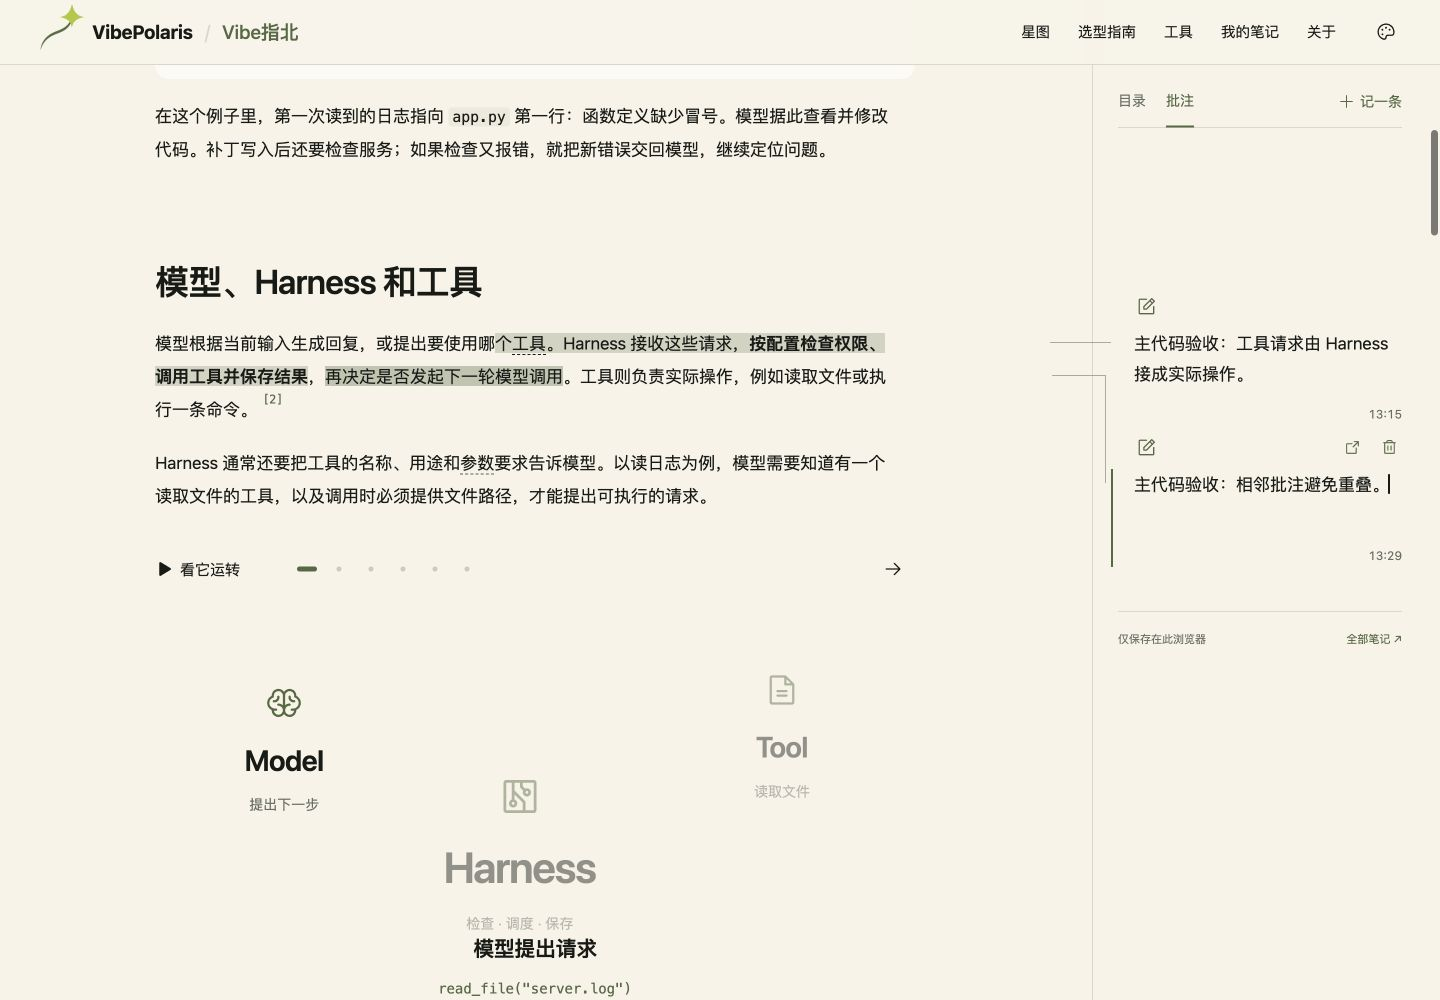
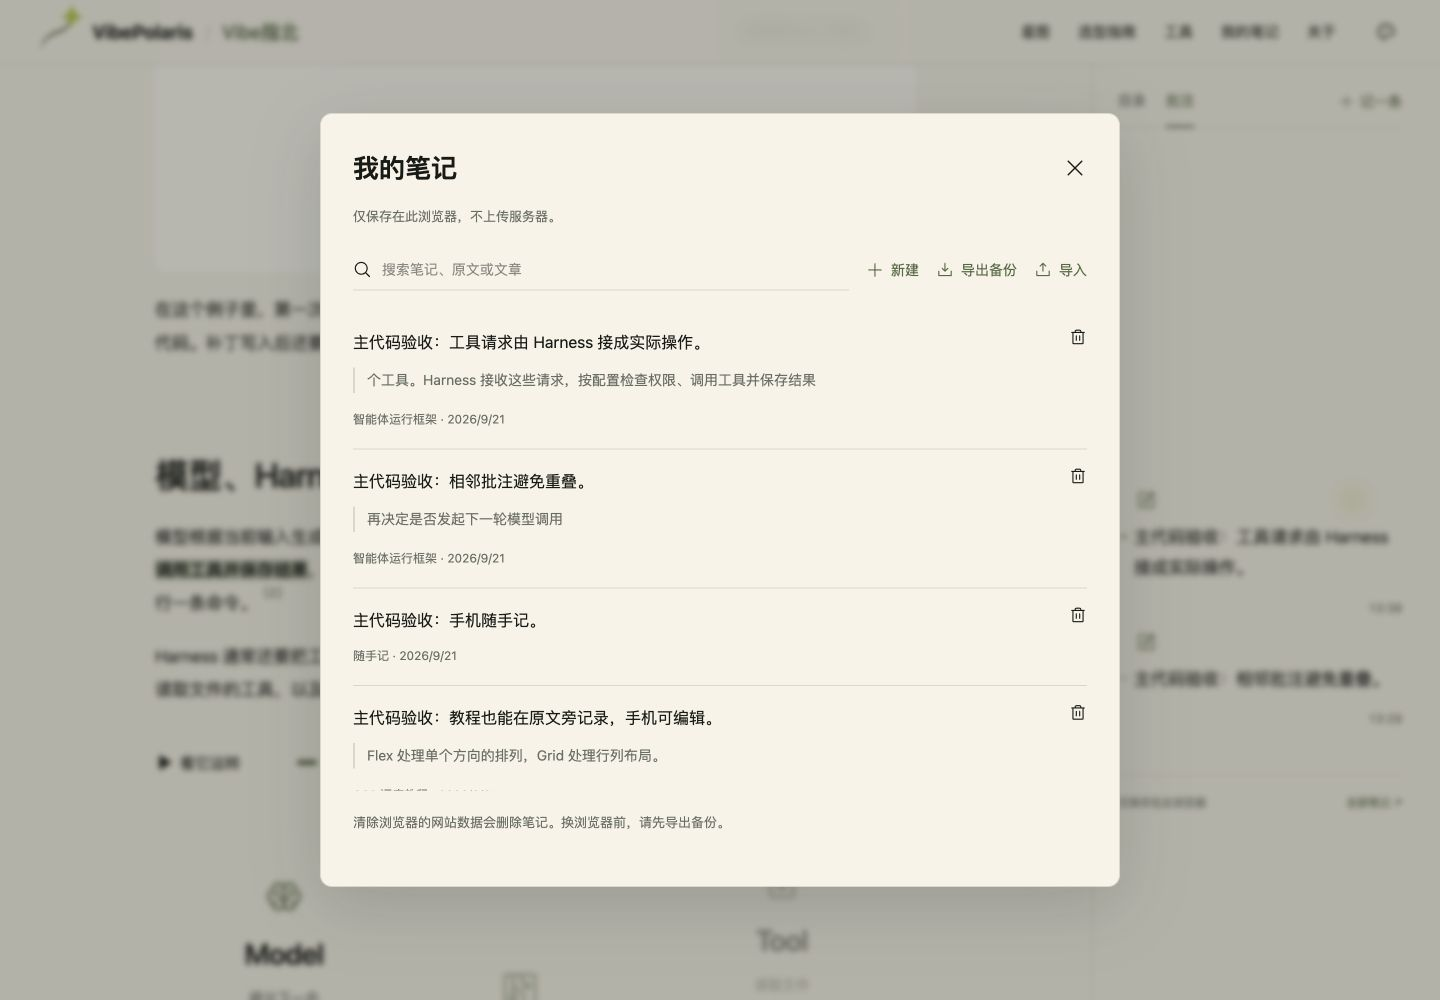
feat(VBP-020): connect highlighted text to note content with dashed lines

diff --git a/components/notes/ReadingNotes.tsx b/components/notes/ReadingNotes.tsx
@@ -95,6 +95,8 @@ export function ReadingNotes({ path, title, layout = "concept", children }: { pa
         CSS.highlights.set("vp-reading-notes", new Highlight(...ranges.values()));
         CSS.highlights.set("vp-reading-active", new Highlight(...(selected && ranges.has(selected) ? [ranges.get(selected)!] : [])));
       }
+      const links = article.querySelector<SVGSVGElement>("[data-note-links]");
+      links?.querySelectorAll<SVGGElement>("g").forEach(link => { link.style.display = "none"; });
       const canvas = article.querySelector<HTMLElement>("[data-note-canvas]");
       if (!canvas) return;
       const cards = [...canvas.querySelectorAll<HTMLElement>("[data-note-id]")];
@@ -108,13 +110,31 @@ export function ReadingNotes({ path, title, layout = "concept", children }: { pa
         let inset: number;
         if (body instanceof HTMLTextAreaElement) { const css = getComputedStyle(body); inset = body.getBoundingClientRect().top - card.getBoundingClientRect().top + Math.max(0, (parseFloat(css.lineHeight) - parseFloat(css.fontSize) * 1.2) / 2); }
         else { const text = document.createRange();text.selectNodeContents(body);inset=(text.getClientRects()[0]?.top ?? body.getBoundingClientRect().top)-card.getBoundingClientRect().top; }
-        return [{card, y: target.top - base, desired: target.top - base - inset, x: target.left}];
+        return [{card, range: range!, body, inset, y: target.top - base, desired: target.top - base - inset, x: target.left}];
       }).sort((a,b) => a.y-b.y || a.x-b.x);
       let bottom = -44;
-      for (const {card,y,desired} of placed) {
+      const origin = article.getBoundingClientRect();
+      for (const {card,range,body,inset,desired} of placed) {
         const top = Math.max(36, desired, bottom + 44);
-        card.style.top = `${top}px`; card.style.setProperty("--note-line-y", `${y-top+9}px`); card.style.setProperty("--note-line-rise", `${Math.max(0,top-desired)}px`);
+        card.style.top = `${top}px`;
         bottom = top + card.offsetHeight;
+        const link = [...(links?.querySelectorAll<SVGGElement>("g") ?? [])].find(item => item.dataset.connectorId === card.dataset.noteId);
+        if (!link) continue;
+        const rects = [...range.getClientRects()].filter(rect => rect.width > 0 && rect.height > 0), first = rects[0];
+        const line = rects.filter(rect => Math.abs(rect.top-first.top) < Math.max(4,first.height/4));
+        const right = Math.max(...line.map(rect => rect.right)), lineBottom = Math.max(...line.map(rect => rect.bottom));
+        const block = range.startContainer.parentElement?.closest<HTMLElement>("[data-note-block]");
+        const blockRight = block?.getBoundingClientRect().right ?? right;
+        const x1 = right + 4 - origin.left;
+        // Leave a partial line through its lower edge so the dash does not cross the following words.
+        const y1 = (blockRight-right > 32 ? lineBottom+5 : (first.top+lineBottom)/2) - origin.top;
+        const x2 = body.getBoundingClientRect().left - 10 - origin.left;
+        const textHeight = body instanceof HTMLTextAreaElement ? parseFloat(getComputedStyle(body).fontSize)*1.2 : first.height;
+        const y2 = card.getBoundingClientRect().top + inset + textHeight/2 - origin.top;
+        const bend = Math.max(x1, Math.min(blockRight+18-origin.left,x2-28));
+        link.querySelector("path")?.setAttribute("d", `M ${x1} ${y1} H ${bend} C ${bend+18} ${y1}, ${x2-22} ${y2}, ${x2} ${y2}`);
+        link.querySelectorAll("circle").forEach((dot,index) => {dot.setAttribute("cx",String(index ? x2 : x1));dot.setAttribute("cy",String(index ? y2 : y1));});
+        link.style.display = "";
       }
       canvas.style.minHeight = `${Math.max(bottom+20, 100)}px`;
     };
@@ -136,6 +156,7 @@ export function ReadingNotes({ path, title, layout = "concept", children }: { pa
   return <ReaderContext.Provider value={{notes,selected,missing,tab,panel,setTab,setPanel,activate,goTo,quickNote}}><div ref={root} className={`${styles.scope} ${layout === "standalone" ? styles.standalone : ""}`} data-reader-layout={layout} onClick={clickHighlight}>
     <style>{`::highlight(vp-reading-notes){background:color-mix(in srgb,var(--accent) 23%,var(--bg));color:var(--ink)}::highlight(vp-reading-active){background:color-mix(in srgb,var(--accent) 34%,var(--bg));color:var(--ink)}`}</style>
     {children}{layout === "standalone" && <ArticleNotesRail/>}
+    <svg className={styles.connectors} data-note-links data-note-ui aria-hidden="true">{notes.map(note=><g key={note.id} data-connector-id={note.id} data-active={selected === note.id}><path/><circle r="2"/><circle r="2"/></g>)}</svg>
     <button data-note-ui className={styles.mobileToggle} onClick={()=>{setPanel(true);setTab("notes");}} aria-keyshortcuts="Alt+N"><NotePencil size={20}/>笔记{notes.length ? ` ${notes.length}` : ""}</button>
     {selection && <div className={styles.selection} data-note-ui data-selection-toolbar role="toolbar" aria-label="选中文字操作" style={{left:Math.max(12,Math.min(window.innerWidth-230,selection.rect.right-220)),top:Math.max(78,selection.rect.top-58)}} onPointerDown={event=>event.preventDefault()}><button disabled={!store.ready} onClick={()=>add(selection.anchor,false)}><Highlighter size={18}/>划线</button><button disabled={!store.ready} onClick={()=>add(selection.anchor)} title="写笔记（Alt+N）"><NotePencil size={18}/>写笔记</button></div>}
   </div></ReaderContext.Provider>;
@@ -155,7 +176,7 @@ export function ArticleNotesRail({ children }: { children?: ReactNode }) {
     <div className={styles.railHead}><div role="tablist" aria-label="阅读侧栏">{children && <button role="tab" aria-selected={tab === "toc"} onClick={()=>setTab("toc")}>目录</button>}<button role="tab" aria-selected={tab === "notes" || !children} onClick={()=>{setTab("notes");setPanel(true);}}>批注</button></div><button onClick={quickNote} disabled={!store.ready}><Plus size={17}/>记一条</button><button className={styles.closePanel} aria-label="收起笔记" onClick={()=>setPanel(false)}><X size={21}/></button></div>
     {store.storageError && <p className={styles.error}>本地存储暂不可用。<button onClick={store.reload}>重试</button></p>}
     {tab === "toc" && children ? <div className={styles.directory}>{children}</div> : <><div data-note-canvas className={styles.canvas} role="tabpanel" aria-label="批注">{notes.map(note=><section className={`${styles.note} ${selected === note.id ? styles.active : ""}`} data-note-id={note.id} key={note.id} hidden={missing.includes(note.id)}>
-      <i className={styles.connector} aria-hidden="true"/><div className={styles.noteHead}><button onClick={()=>activate(note)} aria-label={`编辑笔记：${note.body.slice(0,18)||"划线摘录"}`} title="编辑笔记"><NotePencil size={21}/></button><div className={styles.noteActions}><button onClick={()=>goTo(note)} aria-label="回到这条笔记的原文" title="回到原文"><ArrowSquareOut size={17}/></button><button onClick={()=>store.remove(note)} aria-label="删除这条笔记" title="删除笔记"><Trash size={17}/></button></div></div>
+      <div className={styles.noteHead}><button onClick={()=>activate(note)} aria-label={`编辑笔记：${note.body.slice(0,18)||"划线摘录"}`} title="编辑笔记"><NotePencil size={21}/></button><div className={styles.noteActions}><button onClick={()=>goTo(note)} aria-label="回到这条笔记的原文" title="回到原文"><ArrowSquareOut size={17}/></button><button onClick={()=>store.remove(note)} aria-label="删除这条笔记" title="删除笔记"><Trash size={17}/></button></div></div>
       {selected === note.id ? <NoteEditor note={note} autoFocus/> : <button className={styles.noteText} onClick={()=>goTo(note)}><span data-note-body>{note.body || note.anchor!.exact}</span></button>}
       <footer><NoteTime value={note.updatedAt}/></footer>
     </section>)}{!notes.length && <p className={styles.empty}>{store.ready ? "选中一句话，留下你的想法。" : "正在读取本地笔记…"}</p>}</div>{missing.length>0&&<button className={styles.missing} onClick={()=>store.open(missing[0])}>有 {missing.length} 条原文位置已变化，查看保留的摘录</button>}</>}

diff --git a/components/notes/ReadingNotes.module.css b/components/notes/ReadingNotes.module.css
@@ -1,4 +1,4 @@
-.scope{min-width:0}
+.scope{position:relative;min-width:0}
 .scope button,.rail button,.library button,.toast button{font:inherit;cursor:pointer;background:none;border:0;color:inherit;padding:0}
 .scope button:disabled,.rail button:disabled,.library button:disabled{opacity:.45;cursor:default}
 .scope button:focus-visible,.rail button:focus-visible,.library button:focus-visible,.library input:focus-visible,.scope textarea:focus-visible,.rail textarea:focus-visible,.library textarea:focus-visible{outline:2px solid var(--accent);outline-offset:4px}
@@ -38,8 +38,11 @@
 .time>span{position:absolute;right:calc(100% + 12px);top:0;visibility:hidden;opacity:0;pointer-events:none}
 .time:hover>span,.time:focus>span{visibility:visible;opacity:1}
 .time:focus-visible{outline:1px solid var(--accent);outline-offset:4px}
-.connector{position:absolute;left:-68px;top:var(--note-line-y,10px);width:61px;height:var(--note-line-rise,0px);border-top:1px solid var(--accent);border-right:1px solid var(--accent);opacity:.5;pointer-events:none}
-.active .connector{left:-61px;width:54px}
+.connectors{position:absolute;inset:0;width:100%;height:100%;pointer-events:none;overflow:visible;z-index:2;color:var(--accent-text)}
+.connectors g{opacity:.48}
+.connectors g[data-active=true]{opacity:.85}
+.connectors path{fill:none;stroke:currentColor;stroke-width:1.3;stroke-dasharray:4 5;stroke-linecap:round;vector-effect:non-scaling-stroke}
+.connectors circle{fill:currentColor}
 .railFoot{display:flex;align-items:center;justify-content:space-between;gap:10px;border-top:1px solid var(--hairline);padding:18px 0;margin-top:24px;font-size:11px;color:var(--muted)}
 .railFoot button{color:var(--accent-text)}
 .empty{font-size:14px!important;color:var(--muted);line-height:1.85!important;padding:28px 0;margin:0}
@@ -103,7 +106,7 @@
  .note,.active{position:relative;top:auto!important;left:auto;margin-bottom:26px;padding:0 0 0 15px}
  .noteHead,.active .noteHead{position:static;margin-bottom:13px;height:25px}
  .noteActions{opacity:1}
- .connector{display:none}
+ .connectors{display:none}
  .editor,.note .editor{font-size:16px;line-height:1.8}
  .noteText{font-size:16px!important}
  .note footer{margin-top:8px}
@@ -111,4 +114,4 @@
 }
 @media(max-width:900px){.mobileNav{display:grid;place-items:center}.library{padding:24px}.library h2{font-size:23px}.libraryTools{gap:14px}}
 @media(prefers-reduced-motion:reduce){.scope *,.library *{scroll-behavior:auto!important}}
-@media print{.rail,.mobileToggle,.selection,.toast,.library{display:none!important}.scope :global(.vp-concept .vp-page-layout),.scope :global(.css-course-layout),.standalone{display:block}}
+@media print{.rail,.mobileToggle,.selection,.connectors,.toast,.library{display:none!important}.scope :global(.vp-concept .vp-page-layout),.scope :global(.css-course-layout),.standalone{display:block}}

diff --git a/docs/design/VBP-020-local-notes/README.md b/docs/design/VBP-020-local-notes/README.md
@@ -5,7 +5,7 @@
 ## 行为与数据
 
 - 选中同一段正文中的文字后划线或写笔记；富文本、内联术语和换行保留可读摘录，不收集隐藏的术语解释与引用序号。暂不支持跨段选择。
-- 桌面批注首行对应选文首行；相邻批注按原文位置排序并避让，连接线仍指向出处。移动端为底部面板。
+- 桌面批注首行对应选文首行；相邻批注按原文位置排序并避让。虚线从高亮选文首行的末端连到对应笔记正文首行，两端以小圆点标记；选文在行中结束时，从文字下缘绕出，避免穿过后续文字。移动端为底部面板。
 - 图标位于原“我的想法”标题位置。笔记卡片不显示常规保存状态；更新时间为 24 小时制时分，悬停或聚焦后在时间左侧显示完整日期。保存失败显示重试并保留草稿。
 - 原生 IndexedDB `vibepolaris-reading-notes` 保存内容、文章路径和文字锚点，不调用服务端笔记接口。450ms 延迟保存，失焦时立即提交；未保存内容关闭页面时提示。多标签用 BroadcastChannel 通知重新读取，通知不携带笔记正文。
 - 通过段落标识、摘录和前后文恢复位置。原文移动可重新匹配；歧义或删除时保留摘录并提示，不猜测位置。
@@ -18,6 +18,8 @@
 
 手机面板通过 React portal 挂到 body，避免教程正文的入场动画 transform 改变 fixed 的定位范围。对应 BUG-B7E96257 已修复并通过移动端回归。
 
+后续按用户反馈将栏间短线改成完整 SVG 虚线连接。起点根据原文 Range 的首行合并矩形计算，终点取笔记正文位置；内容编辑、相邻避让、窗口缩放和正文变动后重新测量。SVG 不接收鼠标事件，移动端与打印隐藏。桌面 1440px/1180px 实测连接正确，编辑变长后避让仍连接对应内容，目录模式无残留线；390px 面板可用且无横向溢出。未扩大其他功能回归。
+
 ## 验证证据
 
 - `npm run build`：通过，TypeScript 和 49 个静态页面生成正常。
@@ -27,9 +29,11 @@
 - 390×844：面板固定在视口底部，编辑、收起、随手记正常，页面无水平溢出。未模拟手机软键盘。
 - 相关浏览器控制台无 error/warn。未扩展容量耗尽、禁用存储、跨标签并发冲突和浏览器兼容矩阵验证。
 
-截图：[桌面对齐](desktop.png)、[时间悬停](time-hover.png)、[相邻避让](adjacent.png)、[教程](tutorial.png)、[移动面板](mobile.png)。截图仅含本次验收数据。
+截图：[桌面对齐与虚线](desktop.png)、[较窄桌面连线](connectors-1180.png)、[时间悬停](time-hover.png)、[相邻避让](adjacent.png)、[教程](tutorial.png)、[移动面板](mobile.png)。截图仅含本次验收数据。
 
 DP：VBP-020；实现任务 `d42db92d-eead-49af-b939-da6d77d54671`；测试计划 `198e918d-0546-4641-ac71-29d923981bf8`。实际测试结果、合并提交与部署状态以 DP 记录为准。
+
+虚线专项用例 `9b979e89-bb71-46cf-9fdf-b04be7bb6532`，专项计划 `2a0cf4b1-070f-42e5-984b-8c4d8a42109a`；功能分支 `feat/VBP-020-note-connectors`。
 
 ## 集成与回滚
 
